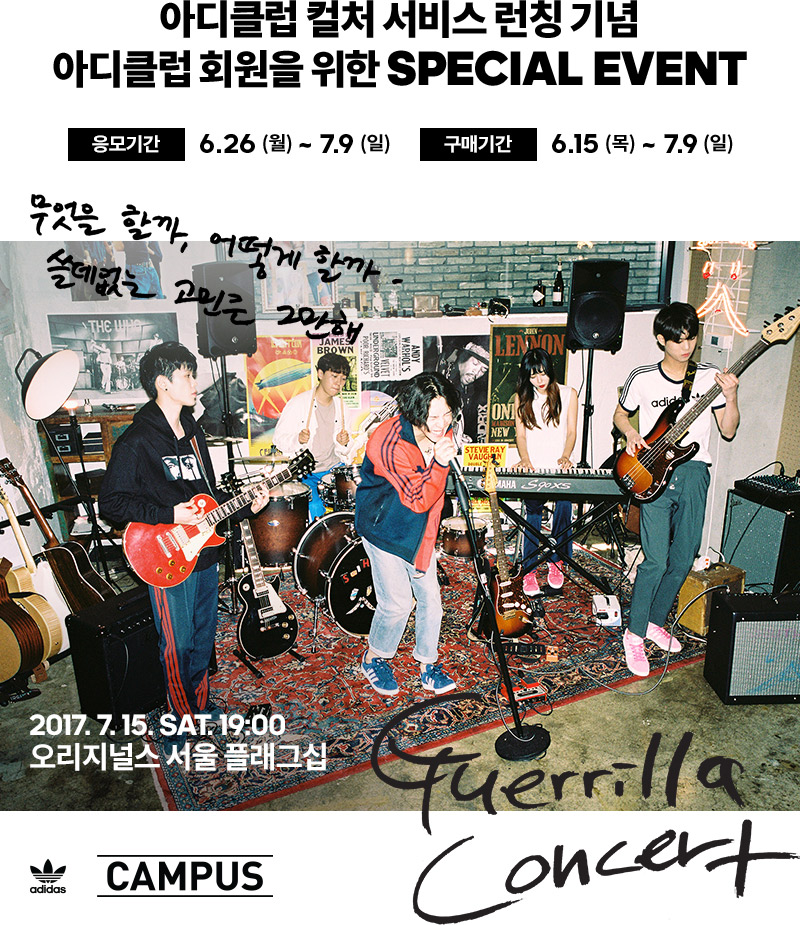
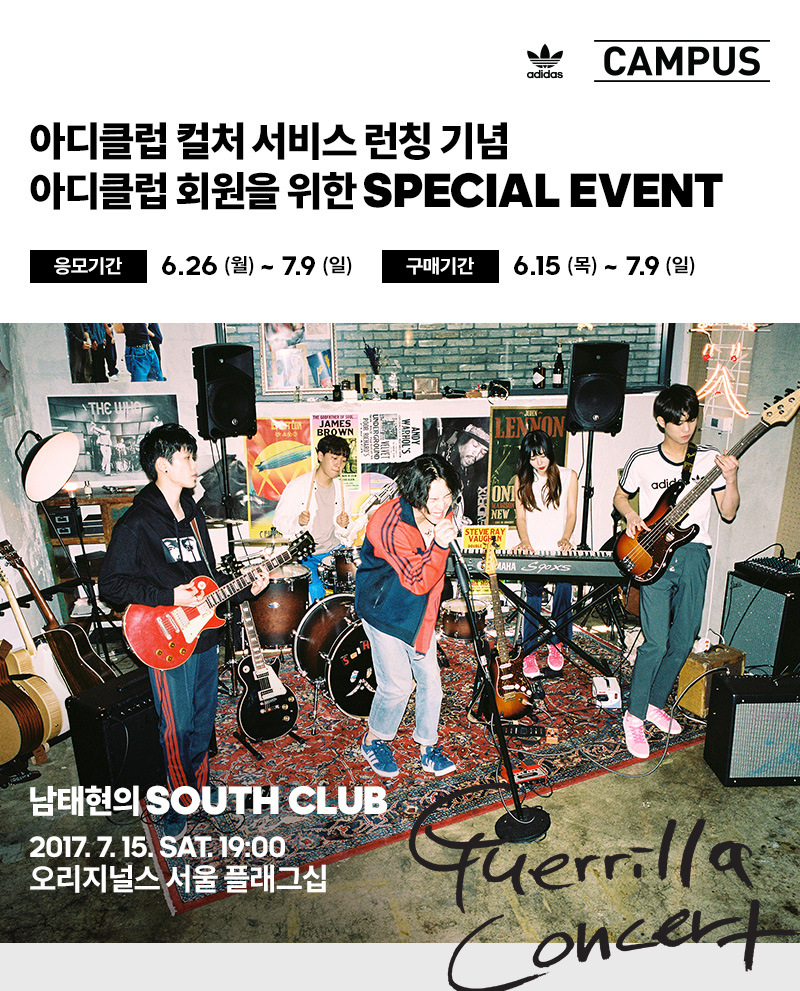
오리지날스 캠페인

diff --git a/app/html/adidas/campaign/3625/index.html b/app/html/adidas/campaign/3625/index.html
@@ -443,12 +443,17 @@
 				<style type="text/css">
                     .adiclub_event .box{position: relative;}
                     .adiclub_event .box img{width:100%;}
+                    /*
+                        17062
+                        .adiclub_event .box .link 변경
+                     */
                     .adiclub_event .box .link{
                         position: absolute;
                         top: 46.034%;
                         left: 0;
                         width: 100%;
                         height: 3rem;
+                        text-indent: -9999px;
                     }
                     .adiclub_event .box .link2{top: 69.517%;}
 
@@ -518,15 +523,80 @@
                         background: #fff;
                     }
 
+                    /* 170623 매장안내 팝업 style */
+                    .layerpopup-wrapper.store_popup{
+                        overflow: auto;
+                    }
+
+                    .layerpopup-wrapper.store_popup>.layerpopup{
+                        top: 100px;
+                        margin-bottom: 100px;
+                        transform:translate3d(0, 0, 0);
+                        -webkit-transform:translate3d(0, 0, 0);
+                    }
+
+                    .layerpopup-wrapper.store_popup .contents>p{
+                        margin-bottom: 1.2rem;
+                        color: #666;
+                        font: 1.1rem/1.7rem 'NotoSansKRLight';
+                        text-align: left;
+                    }
+
+                    .layerpopup-wrapper.store_popup .contents ul{
+                        border-top: 2px solid  #000;
+                        border-bottom: 2px solid  #000;
+                    }
+
+                    .layerpopup-wrapper.store_popup .contents li{
+                        padding: 1rem 0;
+                        border-bottom: 1px solid  #cfcfcf;
+                    }
+
+                    .layerpopup-wrapper.store_popup .contents li>*{
+                        text-align: left;
+                        font-size: 1.1rem;
+                        font-family: 'NotoSansKRRegular';
+                        margin-bottom: 0.6rem;
+                        color: #000;
+                    }
+
+                    .layerpopup-wrapper.store_popup .contents li>*:last-child{
+                        margin-bottom: 0;
+                    }
+
+                    .layerpopup-wrapper.store_popup .contents li>.name{
+                        font-size: 1.3rem;
+                        font-family: 'NotoSansKRBold';
+                    }
+
+                    .layerpopup-wrapper.store_popup .contents li>.address{
+                        font-size: 1.05rem;
+                        font-family: 'NotoSansKRRegular';
+                    }
+
+                    .layerpopup-wrapper.store_popup .contents li>.phone>a{
+                        color: #555;
+                    }
+
 				</style>
 
+                <!--
+                    170623
+                    style="padding:40px 0 0 0;" 삭제
+                -->
 				<div style="position:relative" class="adiclub_event">
-					<div class="box" style="padding:40px 0 0 0;">
+					<div class="box">
                         <img src="http://image.adidas.co.kr/upload/campaign/adidas/3625/01.jpg" alt="기간">
                     </div>
                     <div class="box">
-                        <a href="http://m.adidas.co.kr/MO/Club/adiclubculture.action" class="link"></a>
-                        <a href="http://m.adidas.co.kr/MO/Promotion/landingPage.action?pageNo=306" class="link link2"></a>
+                        <!--
+                            170623
+                            * a태그 스타일 추가
+                            * 매장안내 추가
+                        -->
+                        <a href="http://m.adidas.co.kr/MO/Club/adiclubculture.action" class="link" style="top: 43%;height: 8%;left: 9%;width: 25%;">아디클럽 컬쳐란</a>
+                        <a href="http://m.adidas.co.kr/MO/Promotion/landingPage.action?pageNo=306" class="link link2" style="top: 68%;height: 8%;left: 9%;width: 22%;">제품 확인하기</a>
+                        <a href="javascript:void(0)" class="link link3" style="top: 68%;height: 8%;left: 33%;width: 22%;" onclick="jQuery('.layerpopup-wrapper.store_popup').show()">매장안내</a>
                         <img src="http://image.adidas.co.kr/upload/campaign/adidas/3625/02.jpg" alt="응모방법">
                     </div>
                     <div class="button_area" style="padding:25px 0;">
@@ -535,10 +605,9 @@
                     <div class="tips">
                         <h3>알아두세요!</h3>
                         <ul>
-                            <li>아디다스 공식 온라인 및 오프라인 매장에서 행사 제품을 명시한 <br> 구매기간 (2017.6.15-7.9까지) 동안 구매한 <br> 아디클럽 회원에 한하여 응모 가능합니다.
-                            <br>(단, 반드시 제품 구매시 아디클럽 모바일 멤버십 카드로 5% 포인트 적립 받은 사람에 한함.)</li>
-                            <li><span>한 아이디당 1회 응모 가능하며,</span> <br> <span>반드시 [이벤트 응모하기] 버튼을 클릭해야 응모 완료됩니다.</span></li>
-                            <li>당첨자는 현장에 도착하여 본인 확인 및 1588-8241로 전송된 모바일 초대장을 제시하셔야 입장 가능합니다.</li>
+                            <li>아디다스 공식 온라인 및 오프라인 매장에서 행사 제품을 명시한 구매기간 (2017.6.15-7.9까지) 동안 구매한 아디클럽 회원에 한하여 응모 가능합니다. <br/>(단, 반드시 제품 구매시 아디클럽 모바일 멤버십 카드로 5% 포인트 적립 받은 사람에 한함.)</li>
+                            <li><span>한 아이디당 1회 응모 가능하며, 반드시 [이벤트 응모하기] 버튼을 클릭해야 응모 완료됩니다. </span></li>
+                            <li>당첨자는 현장에 도착하여 본인 확인 및 1588-8241로 전송된 모바일 초대장을 제시하셔야 입장 가능합니다. </li>
                             <li>응모하신 후 제품 구매 취소 및 환불시 대상에서 제외됩니다.</li>
                             <li>미성년자도 응모 가능합니다.</li>
                         </ul>
@@ -616,6 +685,7 @@
                 </div>
             </div>
         </div>
+
         <!-- 170622 제품구매팝업 popup -->
         <div class="layerpopup-wrapper promotion_popup_adiclub_event prd_pop">
             <div class="overlay"></div>
@@ -628,6 +698,69 @@
                     <div class="button_area">
                         <div class="blue" style="padding:0;"><a href="http://m.adidas.co.kr/MO/Club/clubCampainView.action?event_id=3625" class="aft icons" data-icon="">이벤트 상세 내용 보기</a></div>
                     </div>
+                </div>
+            </div>
+        </div>
+
+        <!-- 170622 매장안내 popup -->
+        <div class="layerpopup-wrapper promotion_popup_adiclub_event store_popup">
+            <div class="overlay"></div>
+            <div class="layerpopup">
+                <div class="header">
+                    <h2>행사 매장 안내</h2>
+                    <div class="close_x_btn" href="javascript:void(0)"></div>
+                </div>
+                <div class="contents">
+                    <p>오리지널스 캠퍼스 SOUTH CLUB 콘서트 티켓 프로모션 행사 매장을 확인하세요.</p>
+                    <ul>
+                        <li>
+                            <p class="name">이태원 NBHD</p>
+                            <p class="address">서울 용산구 이태원로 144-1</p>
+                            <p class="phone"><a href="tel:02-795-1215">02-795-1215</a></p>
+                        </li>
+                        <li>
+                            <p class="name">현대신촌 OFS</p>
+                            <p class="address">서울 서대문구 신촌로 83 현대백화점 신촌점 유플렉스 8층</p>
+                            <p class="phone"><a href="tel:02-3145-1518">02-3145-1518</a></p>
+                        </li>
+                        <li>
+                            <p class="name">현대목동 OFS</p>
+                            <p class="address">서울 양천구 목동동로 257 현대백화점 목동점 스포츠관 1층</p>
+                            <p class="phone"><a href="tel:02-2163-3558">02-2163-3558</a></p>
+                        </li>
+                        <li>
+                            <p class="name">문정 NBHD</p>
+                            <p class="address">서울 송파구 동남로 125</p>
+                            <p class="phone"><a href="tel:02-404-2258">02-404-2258</a></p>
+                        </li>
+                        <li>
+                            <p class="name">대학로OFS</p>
+                            <p class="address">서울특별시 종로구 대명길 25</p>
+                            <p class="phone"><a href="tel:02-765-4772">02-765-4772</a></p>
+                        </li>
+                        <li>
+                            <p class="name">홍대와이즈파크 OFS</p>
+                            <p class="address">서울 마포구 양화로 176</p>
+                            <p class="phone"><a href="tel:02-3144-3961">02-3144-3961</a></p>
+                        </li>
+                        <li>
+                            <p class="name">오리지널스 홍대점</p>
+                            <p class="address">서울특별시 마포구 홍익로6길 27</p>
+                            <p class="phone"><a href="tel:02-338-6346">02-338-6346</a></p>
+                        </li>
+                        <li>
+                            <p class="name">오리지널스 신촌점</p>
+                            <p class="address">서울특별시 서대문구 신촌역로 20</p>
+                            <p class="phone"><a href="tel:02-312-7922">02-312-7922</a></p>
+                        </li>
+                        <li>
+                            <p class="name">오리지널스 명동점</p>
+                            <p class="address">서울특별시 중구 명동8나길 20 (충무로1가)</p>
+                            <p class="phone"><a href="tel:02-756-7321">02-756-7321</a></p>
+                        </li>
+                    </ul>
+
+
                 </div>
             </div>
         </div>
